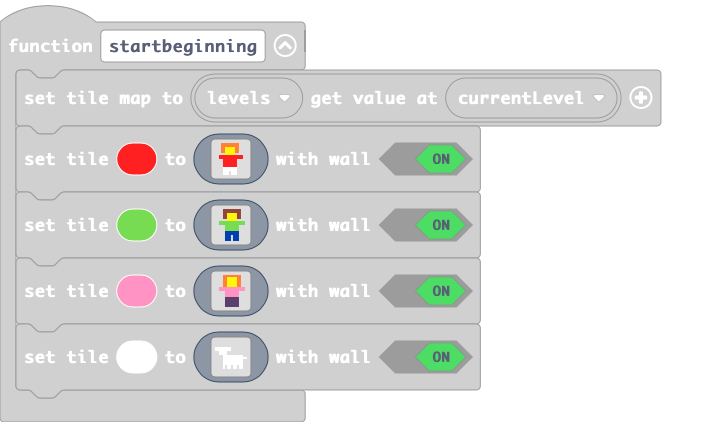
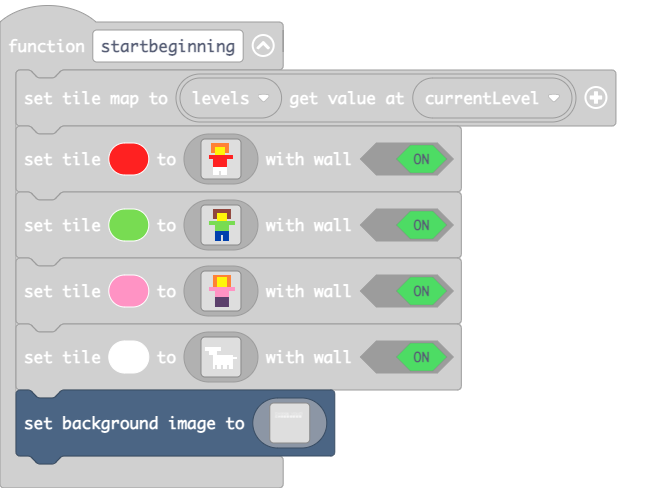
Update pxt.json, main.blocks, main.ts

diff --git a/main.ts b/main.ts
@@ -72,6 +72,128 @@ function startbeginning () {
         . . . . . . . . . . . . . . . . 
         . . . . . . . . . . . . . . . . 
         `, true)
+    scene.setBackgroundImage(img`
+        ................................................................................................................................................................
+        ................................................................................................................................................................
+        ................................................................................................................................................................
+        ................................................................................................................................................................
+        ................................................................................................................................................................
+        ................................................................................................................................................................
+        ........................................................................................................................................11111...................
+        ....................................................................................1.............1..............................1.11111........................
+        ........1111111111...1.....1.........................................................1...........1....1111111....................1...........1..................
+        ........1............1.....1....11111111...1111111....11111111..1111111111............1.........1....1.......1.....1........1....1...........1..................
+        ........1............1.....1....1.......1.1.......1...1..........1.....................1.......1....1.........1....1........1....1...........1..................
+        ........1............1.....1....1.......1.1.......1...1..........111....................1.....1....1...........1...1........1....1...........1..................
+        ........1............1.....1....1.......1.1.......1...1..........1..1....................1...1.....1...1.......1...1........1....1...........1..................
+        ........1............1111111....1.......1.1.......1...1..........1...1....................1.1......1...........1...1........1....1.....1111111..................
+        ........1............1.....1....1.......1.1.......1.....111111...1....11111........................1...........1...1........1.....1.............................
+        ........1............1.....1....1.......1.1.......1..............1.1111.1..................1.......1...........1....1.......1.....1.............................
+        ........1............1.....1....1.......1.1.......1..........1...1.......1.................1.......1...........1....1.......1.....1......1......................
+        ........1111111111...1.....1.....1111111...1111111...........1...1.........................1.......1...........1....1.......1.....1.......1.....................
+        .......................................................11111111..1....11111................1........1.........1.....1.......1.....1........1....................
+        .................................................................11111.....................1.........1.......1......1.......1.....1.........11..................
+        ...........................................................................................1..........1111111.......1.......1.....1...........1.................
+        ...........................................................................................1................................1......1...........1................
+        ............................................................................................1.............................111...................................
+        ........1111111111....111....111....1111111111....1111111111.....1111111111......1111111111....1111111111......1111111111......1111111111.......................
+        ........1111111111....111....111....1111111111....1111111111.....1111111111......1111111111....1111111111......1111111111......1111111111.......................
+        ........11............111....111....1111111111....1111111111.....1111111111......1111111111....1111111111......1111111111......1111111111.......................
+        ........11............1111111111....1111111111....1111111111.....1111111111......1111111111....1111111111......1111111111......1111111111.......................
+        ........11............1111111111....1111111111....1111111111.....1111111111......1111111111....1111111111......1111111111......1111111111.......................
+        ........11............1111111111....1111111111....1111111111.....1111111111......1111111111....1111111111......1111111111......1111111111.......................
+        ........11............111....111..................1111111111.....1111111111......1111111111....1111111111......1111111111......1111111111.......................
+        ........11............111....111....1111111111....1111111111.....1111111111......1111111111....1111111111......1111111111......1111111111.......................
+        ........1111111111....111....111....1111111111....1111111111.....1111111111......1111111111....1111111111......1111111111......1111111111.......................
+        ........1111111111....111....111....1111111111....1111111111.....1111111111......1111111111....1111111111......1111111111......1111111111.......................
+        ................................................................................................................................................................
+        ................................................................................................................................................................
+        ................................................................................................................................................................
+        ................................................................................................................................................................
+        ................................................................................................................................................................
+        ................................................................................................................................................................
+        ................................................................................................................................................................
+        ................................................................................................................................................................
+        ................................................................................................................................................................
+        ................................................................................................................................................................
+        ................................................................................................................................................................
+        ................................................................................................................................................................
+        ................................................................................................................................................................
+        ................................................................................................................................................................
+        ................................................................................................................................................................
+        ................................................................................................................................................................
+        ................................................................................................................................................................
+        ................................................................................................................................................................
+        ................................................................................................................................................................
+        ................................................................................................................................................................
+        ................................................................................................................................................................
+        ................................................................................................................................................................
+        ................................................................................................................................................................
+        ................................................................................................................................................................
+        ................................................................................................................................................................
+        ................................................................................................................................................................
+        ................................................................................................................................................................
+        ................................................................................................................................................................
+        ................................................................................................................................................................
+        ................................................................................................................................................................
+        ................................................................................................................................................................
+        ................................................................................................................................................................
+        ................................................................................................................................................................
+        ................................................................................................................................................................
+        ................................................................................................................................................................
+        ................................................................................................................................................................
+        ................................................................................................................................................................
+        ................................................................................................................................................................
+        ................................................................................................................................................................
+        ................................................................................................................................................................
+        ................................................................................................................................................................
+        ................................................................................................................................................................
+        ................................................................................................................................................................
+        ................................................................................................................................................................
+        ................................................................................................................................................................
+        ................................................................................................................................................................
+        ................................................................................................................................................................
+        ................................................................................................................................................................
+        ................................................................................................................................................................
+        ................................................................................................................................................................
+        ................................................................................................................................................................
+        ................................................................................................................................................................
+        ................................................................................................................................................................
+        ................................................................................................................................................................
+        ................................................................................................................................................................
+        ................................................................................................................................................................
+        ................................................................................................................................................................
+        ................................................................................................................................................................
+        ................................................................................................................................................................
+        ................................................................................................................................................................
+        ................................................................................................................................................................
+        ................................................................................................................................................................
+        ................................................................................................................................................................
+        ................................................................................................................................................................
+        ................................................................................................................................................................
+        ................................................................................................................................................................
+        ................................................................................................................................................................
+        ................................................................................................................................................................
+        ................................................................................................................................................................
+        ................................................................................................................................................................
+        ................................................................................................................................................................
+        ................................................................................................................................................................
+        ................................................................................................................................................................
+        ................................................................................................................................................................
+        ................................................................................................................................................................
+        ................................................................................................................................................................
+        ................................................................................................................................................................
+        ................................................................................................................................................................
+        ................................................................................................................................................................
+        ................................................................................................................................................................
+        ................................................................................................................................................................
+        ................................................................................................................................................................
+        ................................................................................................................................................................
+        ................................................................................................................................................................
+        ................................................................................................................................................................
+        ................................................................................................................................................................
+        ................................................................................................................................................................
+        `)
 }
 scene.onHitTile(SpriteKind.Player, 2, function (sprite) {
     scene.setBackgroundColor(8)
